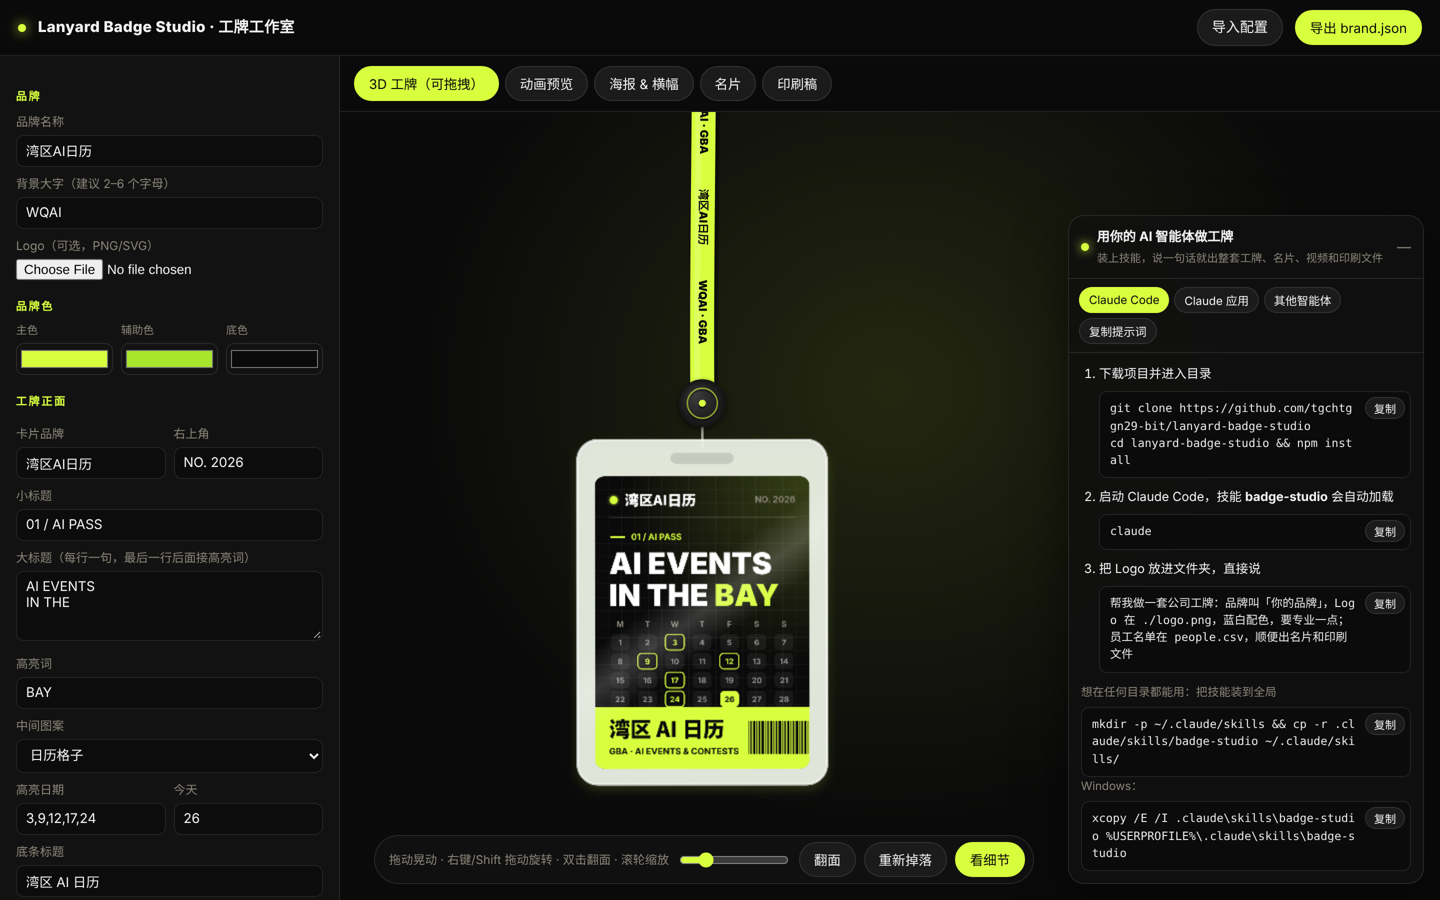
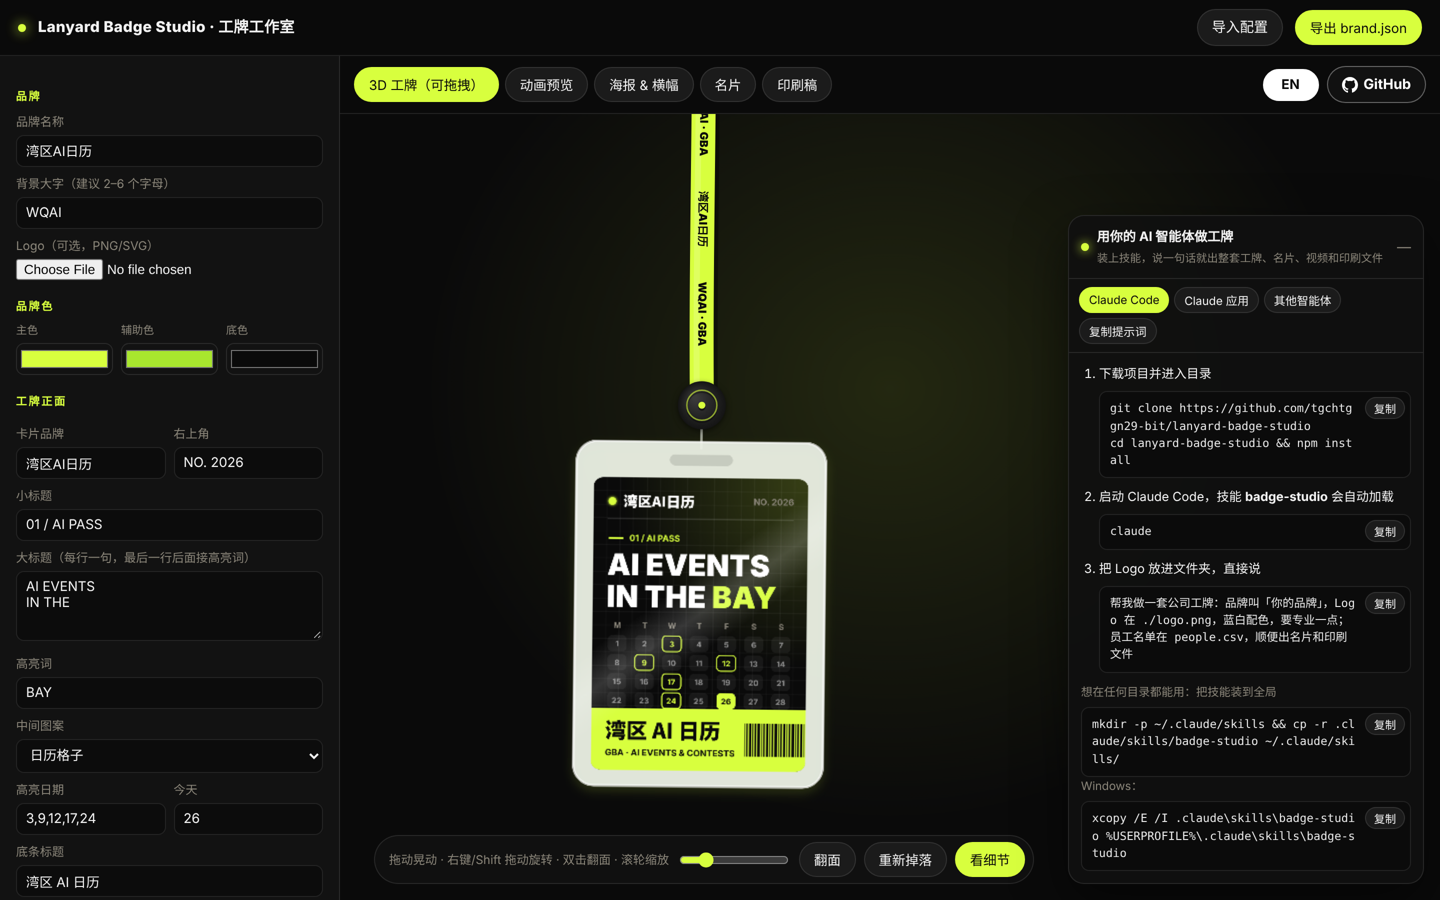
Studio: language toggle and GitHub button at the top-right of the workspace
Claude-Session: https://claude.ai/code/session_012V7wkNwN4h16Dz7vU7uxJ8

diff --git a/studio/index.html b/studio/index.html
@@ -20,10 +20,11 @@ header{height:56px;display:flex;align-items:center;gap:12px;padding:0 18px;borde
 header .dot{width:8px;height:8px;border-radius:50%;background:var(--acc);box-shadow:0 0 12px var(--acc)}
 header h1{font-size:15px;margin:0;font-weight:800;letter-spacing:.02em}
 header .sp{flex:1}
-.langsw{display:flex;border:1px solid var(--line);border-radius:999px;padding:2px;gap:2px}
-.langsw button{border:0;padding:5px 12px;background:transparent}
-.langsw button.on{background:#fff;color:#0A0A0A}
-a.btn.gh{display:inline-flex;align-items:center;gap:6px;background:#fff;color:#0A0A0A;border-color:#fff;text-decoration:none;font-weight:700}
+.tabs{align-items:center}
+.topright{margin-left:auto;display:flex;gap:8px;align-items:center}
+.langbtn{background:#fff;color:#0A0A0A;border-color:#fff;font-weight:700;min-width:56px}
+.langbtn:hover{background:var(--acc);border-color:var(--acc);color:#0A0A0A}
+a.btn.gh{display:inline-flex;align-items:center;gap:6px;background:#111;color:#fff;border:1px solid rgba(255,255,255,.35);text-decoration:none;font-weight:700}
 a.btn.gh:hover{background:var(--acc);border-color:var(--acc);color:#0A0A0A}
 @media (max-width:860px){header h1{font-size:13px}header .btn,header button{padding:6px 10px}}
 button,.btn{background:#1b1b1b;color:var(--text);border:1px solid var(--line);border-radius:999px;padding:7px 14px;font:600 13px inherit;font-family:inherit;cursor:pointer;white-space:nowrap}
@@ -106,8 +107,6 @@ section.view{position:relative;overflow:hidden;display:flex;flex-direction:colum
   <span class="sp"></span>
   <label class="btn">导入配置<input id="importCfg" type="file" accept=".json" hidden></label>
   <button id="exportCfg" class="primary">导出 brand.json</button>
-  <div class="langsw"><button type="button" data-lang="zh">中文</button><button type="button" data-lang="en">EN</button></div>
-  <a class="btn gh" href="https://github.com/tgchtggn29-bit/lanyard-badge-studio" target="_blank" rel="noopener"><svg viewBox="0 0 16 16" width="16" height="16" aria-hidden="true"><path fill="currentColor" d="M8 0C3.58 0 0 3.58 0 8c0 3.54 2.29 6.53 5.47 7.59.4.07.55-.17.55-.38 0-.19-.01-.82-.01-1.49-2.01.37-2.53-.49-2.69-.94-.09-.23-.48-.94-.82-1.13-.28-.15-.68-.52-.01-.53.63-.01 1.08.58 1.23.82.72 1.21 1.87.87 2.33.66.07-.52.28-.87.51-1.07-1.78-.2-3.64-.89-3.64-3.95 0-.87.31-1.59.82-2.15-.08-.2-.36-1.02.08-2.12 0 0 .67-.21 2.2.82.64-.18 1.32-.27 2-.27.68 0 1.36.09 2 .27 1.53-1.04 2.2-.82 2.2-.82.44 1.1.16 1.92.08 2.12.51.56.82 1.27.82 2.15 0 3.07-1.87 3.75-3.65 3.95.29.25.54.73.54 1.48 0 1.07-.01 1.93-.01 2.2 0 .21.15.46.55.38A8.013 8.013 0 0016 8c0-4.42-3.58-8-8-8z"/></svg>GitHub</a>
 </header>
 <main>
 <aside>
@@ -167,6 +166,7 @@ section.view{position:relative;overflow:hidden;display:flex;flex-direction:colum
     <button data-pane="pposter">海报 & 横幅</button>
     <button data-pane="pcard">名片</button>
     <button data-pane="pprint">印刷稿</button>
+    <div class="topright"><button type="button" class="langbtn" id="langBtn">EN</button><a class="btn gh" href="https://github.com/tgchtggn29-bit/lanyard-badge-studio" target="_blank" rel="noopener"><svg viewBox="0 0 16 16" width="16" height="16" aria-hidden="true"><path fill="currentColor" d="M8 0C3.58 0 0 3.58 0 8c0 3.54 2.29 6.53 5.47 7.59.4.07.55-.17.55-.38 0-.19-.01-.82-.01-1.49-2.01.37-2.53-.49-2.69-.94-.09-.23-.48-.94-.82-1.13-.28-.15-.68-.52-.01-.53.63-.01 1.08.58 1.23.82.72 1.21 1.87.87 2.33.66.07-.52.28-.87.51-1.07-1.78-.2-3.64-.89-3.64-3.95 0-.87.31-1.59.82-2.15-.08-.2-.36-1.02.08-2.12 0 0 .67-.21 2.2.82.64-.18 1.32-.27 2-.27.68 0 1.36.09 2 .27 1.53-1.04 2.2-.82 2.2-.82.44 1.1.16 1.92.08 2.12.51.56.82 1.27.82 2.15 0 3.07-1.87 3.75-3.65 3.95.29.25.54.73.54 1.48 0 1.07-.01 1.93-.01 2.2 0 .21.15.46.55.38A8.013 8.013 0 0016 8c0-4.42-3.58-8-8-8z"/></svg>GitHub</a></div>
   </div>
 
   <div id="p3d" class="pane on">
@@ -537,9 +537,9 @@ function translateDOM(root) {
     e.setAttribute(a, LANG === 'en' ? tr(e.getAttribute(key)) : e.getAttribute(key));
   }));
   document.documentElement.lang = LANG === 'en' ? 'en' : 'zh-CN';
-  document.querySelectorAll('.langsw button').forEach(b => b.classList.toggle('on', b.dataset.lang === LANG));
+  $('langBtn').textContent = LANG === 'en' ? '中文' : 'EN'; $('langBtn').title = LANG === 'en' ? '切换到中文' : 'Switch to English';
 }
-document.querySelectorAll('.langsw button').forEach(b => b.onclick = () => { LANG = b.dataset.lang; try { localStorage.setItem('lbs.lang', LANG); } catch (e) { } reelCache = null; translateDOM(); });
+$('langBtn').onclick = () => { LANG = LANG === 'en' ? 'zh' : 'en'; try { localStorage.setItem('lbs.lang', LANG); } catch (e) { } reelCache = null; translateDOM(); };
 
 // ---------------------------------------------------------------- 8-second showreel (drop → drag → flip → zoom), recorded in the browser
 let reelCache = null;
@@ -676,8 +676,8 @@ $('gApply').onclick = async () => {
 $('chatHead').onclick = () => { $('chat').classList.toggle('min'); $('chatToggle').textContent = $('chat').classList.contains('min') ? '+' : '—'; layout(); };
 
 // ---------------------------------------------------------------- tabs & boot
-document.querySelectorAll('.tabs button').forEach(b => b.onclick = () => {
-  document.querySelectorAll('.tabs button').forEach(x => x.classList.toggle('on', x === b));
+document.querySelectorAll('.tabs button[data-pane]').forEach(b => b.onclick = () => {
+  document.querySelectorAll('.tabs button[data-pane]').forEach(x => x.classList.toggle('on', x === b));
   document.querySelectorAll('.pane').forEach(p => p.classList.toggle('on', p.id === b.dataset.pane));
   if (b.dataset.pane === 'p3d') layout();
 });
